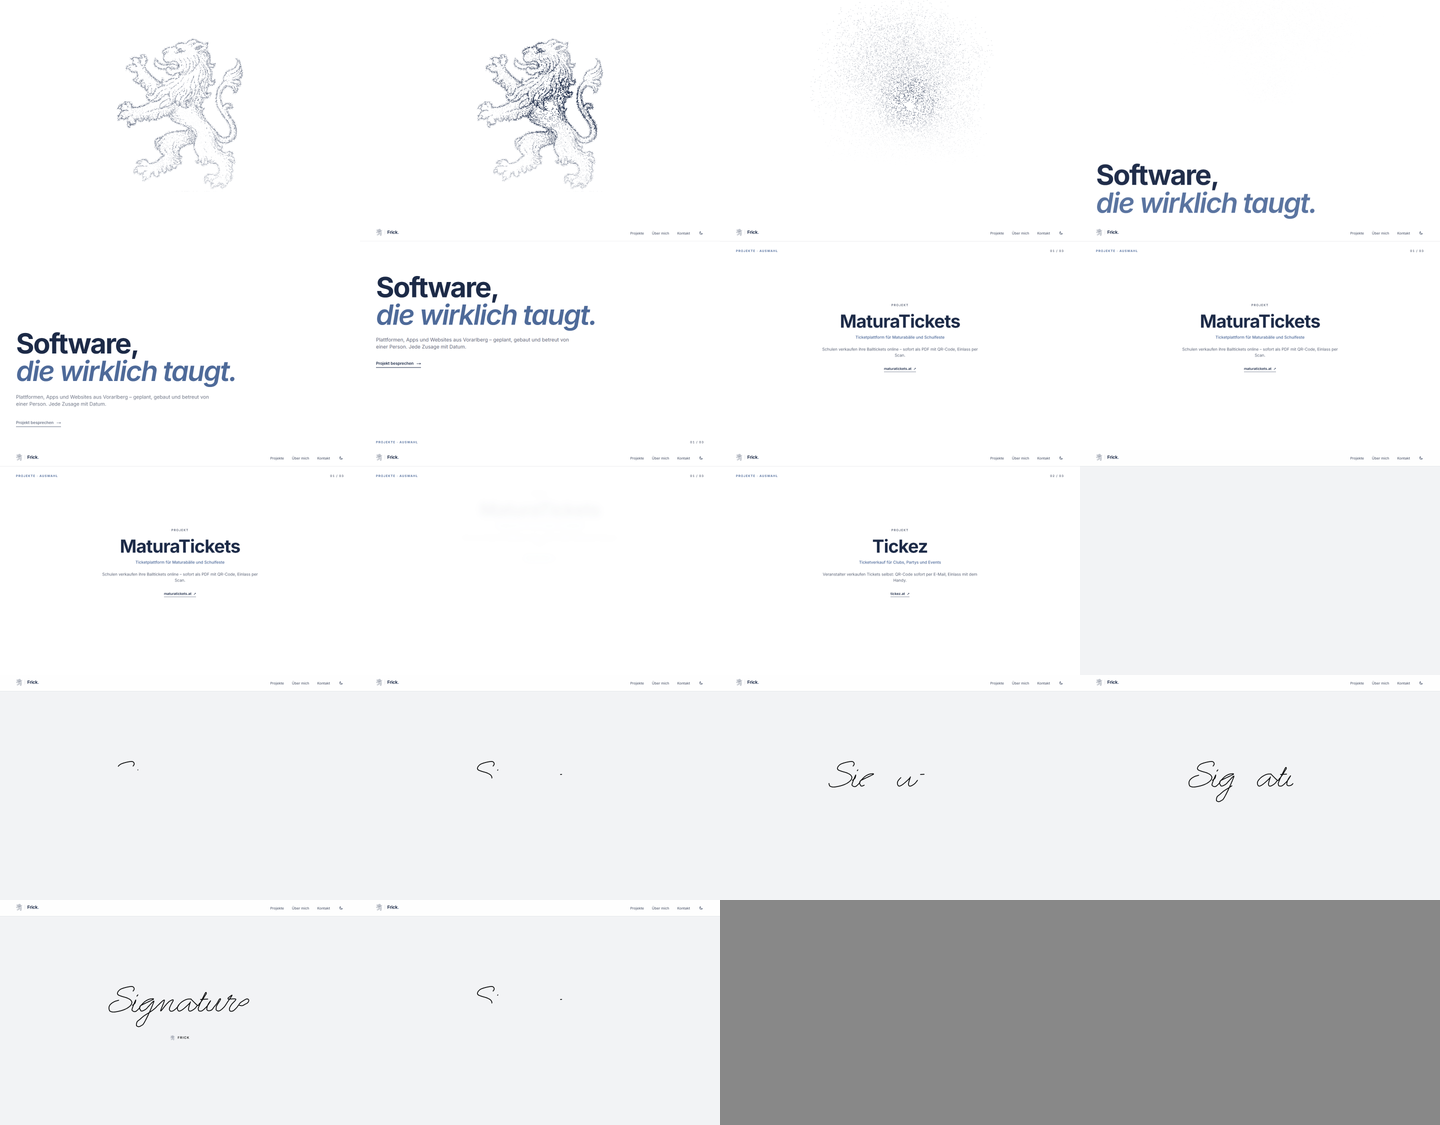
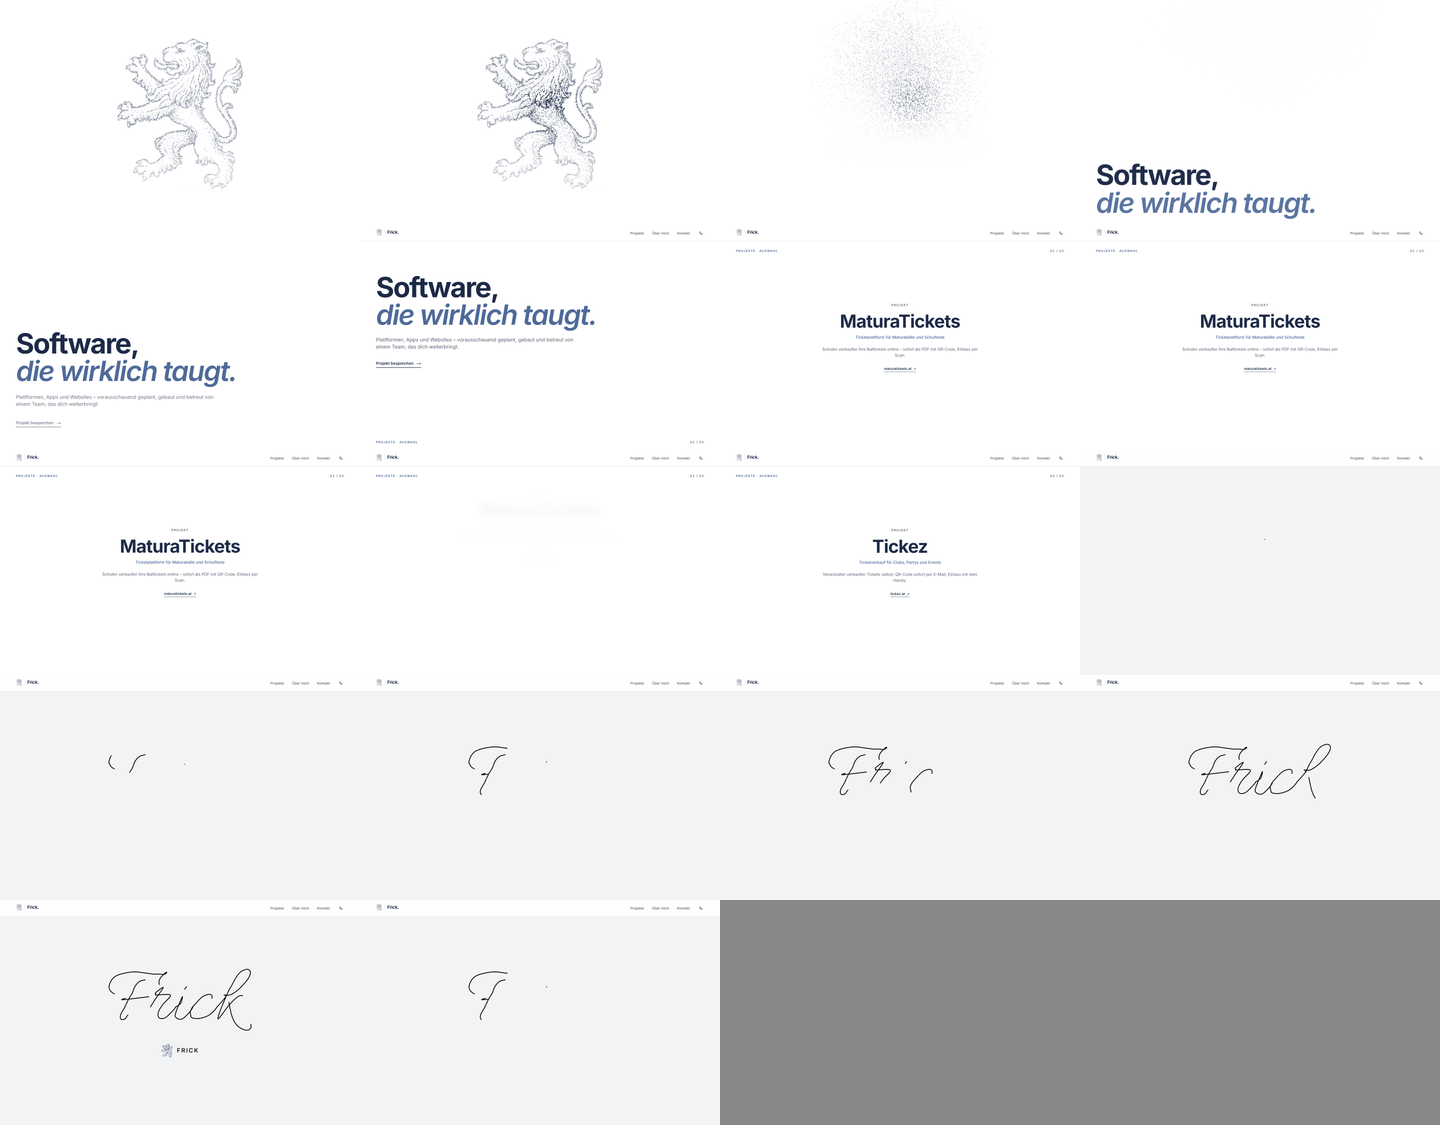
feat: Unterschrift „Frick“, ruhiger Löwe, langsamere Projekte, neuer Slogan-Text
- Löwe: kein Hereinfliegen mehr, Punkte blenden an Ort und Stelle ein;
  beim Hover leuchten sie nur auf (keine Bewegung)
- Projekte: ca. 2,2 Bildschirmhöhen Scrollweg pro Projekt
- Slogan-Text: „… vorausschauend geplant, gebaut und betreut von einem Team,
  das dich weiterbringt.“
- Unterschrift-Platzhalter „Frick“ (7 Striche), Staffelung passt sich der
  Strichanzahl an; Löwe und Name darunter größer

diff --git a/lib/signature.ts b/lib/signature.ts
@@ -2,7 +2,7 @@
  * Unterschrift für das Outro (components/SignatureOutro.tsx).
  *
  * ─── HIER ERSETZEN ───────────────────────────────────────────────────────
- * Platzhalter: Fantasie-Schriftzug „Signature“, gesetzt aus „EMS Allure“
+ * Platzhalter: Schriftzug „Frick“, gesetzt aus „EMS Allure“
  * (Einstrich-Schreibschrift, SIL Open Font License).
  *
  * Für die echte Unterschrift: als SVG aus Figma/Illustrator exportieren –
@@ -15,17 +15,21 @@
  * ─────────────────────────────────────────────────────────────────────────
  */
 export const signature = {
-  viewBox: "0 0 580 173",
+  viewBox: "0 0 580 255",
   paths: [
-    // S (Anfangsbuchstabe)
-    "M102.20 24.41 C102.87 23.43 105.53 20.65 106.20 18.56 C106.86 16.47 107.53 13.94 106.20 11.85 C104.86 9.76 102.99 6.52 98.20 6.00 C93.42 5.48 85.00 6.98 77.51 8.71 C70.02 10.45 59.25 13.28 53.25 16.42 C47.26 19.56 43.57 23.96 41.55 27.55 C39.53 31.14 38.89 35.11 41.12 37.97 C43.36 40.82 48.97 42.44 54.96 44.67 C60.96 46.91 71.02 48.98 77.08 51.38 C83.15 53.78 88.00 56.38 91.35 59.09 C94.71 61.80 96.37 64.96 97.21 67.65 C98.04 70.34 97.32 72.67 96.35 75.21 C95.37 77.76 94.42 79.91 91.35 82.92 C88.29 85.93 83.77 90.03 77.94 93.25 C72.11 96.47 64.86 99.77 56.39 102.24 C47.92 104.71 34.48 107.48 27.14 108.08 C19.79 108.68 15.59 107.11 12.29 105.83 C9.00 104.56 8.40 103.29 7.36 100.45 C6.31 97.60 5.40 92.45 6.00 88.77 C6.60 85.09 8.60 81.35 10.94 78.35 C13.27 75.36 16.78 72.95 20.00 70.79 C23.22 68.63 26.09 67.01 30.27 65.37 C34.46 63.73 42.64 61.68 45.12 60.94",
+    // F – Schaft (Anfangsbuchstabe)
+    "M150.69 48.03 C146.91 49.18 134.84 50.47 128.02 54.94 C121.20 59.41 114.56 67.15 109.77 74.85 C104.98 82.54 103.50 92.68 99.26 101.11 C95.02 109.55 89.58 115.58 84.33 125.45 C79.08 135.31 72.95 150.13 67.74 160.28 C62.53 170.44 55.81 179.71 53.09 186.38 C50.37 193.06 50.87 196.84 51.43 200.32 C51.98 203.80 53.36 206.56 56.40 207.29 C59.45 208.01 66.17 206.85 69.68 204.67 C73.18 202.50 75.39 196.85 77.42 194.24 C79.45 191.63 81.10 189.88 81.84 189.01",
+    // F – Bogen oben
+    "M27.79 104.43 C25.61 103.00 18.34 100.65 14.71 95.86 C11.08 91.07 5.13 84.25 6.00 75.68 C6.87 67.10 12.96 52.54 19.94 44.43 C26.91 36.32 33.92 31.67 47.83 27.01 C61.75 22.36 86.45 17.52 103.41 16.51 C120.37 15.49 136.50 19.46 149.58 20.93 C162.67 22.41 172.90 24.62 181.93 25.35 C190.96 26.09 196.36 25.22 203.78 25.35 C211.19 25.49 220.96 27.06 226.45 26.18 C231.93 25.31 235.66 21.25 236.68 20.10 C237.69 18.95 236.59 15.95 232.53 19.27 C228.48 22.59 216.72 34.20 212.35 40.01 C207.97 45.82 207.14 49.59 206.26 54.11 C205.39 58.63 206.96 64.94 207.09 67.10",
+    // F – Querstrich
+    "M71.34 121.85 C69.72 122.86 45.99 128.95 61.66 127.93 C77.33 126.92 148.06 117.80 165.34 115.77",
     // i-Punkt
-    "M121.61 39.25 L117.54 44.67",
-    // t-Querstrich
-    "M371.99 57.80 L401.18 56.38",
-    // ign
-    "M99.56 81.07 C101.21 79.80 107.28 76.95 109.45 73.50 C111.62 70.05 114.40 56.78 112.60 60.37 C110.81 63.96 100.54 87.76 98.66 95.04 C96.79 102.31 99.19 102.17 101.36 104.04 C103.53 105.92 108.10 107.41 111.69 106.28 C115.28 105.16 119.81 100.21 122.89 97.29 C125.97 94.37 128.15 91.48 130.17 88.77 C132.19 86.07 126.18 86.32 135.02 81.07 C143.87 75.81 177.86 61.28 183.26 57.23 C188.66 53.19 173.05 55.31 167.42 56.80 C161.79 58.30 154.49 62.70 149.48 66.22 C144.47 69.74 140.33 75.00 137.34 77.93 C134.34 80.85 133.00 81.52 131.50 83.78 C130.00 86.04 128.42 88.93 128.35 91.48 C128.27 94.04 129.62 96.92 131.04 99.09 C132.47 101.26 133.29 104.78 136.89 104.48 C140.49 104.18 148.00 100.60 152.63 97.29 C157.27 93.98 160.58 88.98 164.71 84.63 C168.84 80.29 174.77 73.98 177.41 71.22 C180.05 68.46 179.29 68.60 180.55 68.08 C181.81 67.56 187.90 59.54 184.97 68.08 C182.05 76.62 169.74 104.92 163.00 119.31 C156.25 133.70 148.95 147.38 144.53 154.42 C140.10 161.46 139.00 159.67 136.45 161.55 C133.91 163.43 131.52 164.86 129.26 165.69 C127.00 166.52 125.14 167.24 122.89 166.55 C120.64 165.86 116.50 164.79 115.76 161.55 C115.02 158.32 116.37 150.97 118.47 147.14 C120.57 143.31 124.30 142.10 128.35 138.58 C132.39 135.06 138.83 129.15 142.73 126.02 C146.63 122.88 146.11 123.43 151.72 119.77 C157.33 116.11 169.66 108.76 176.41 104.04 C183.16 99.33 187.97 95.31 192.25 91.48 C196.53 87.65 196.20 86.25 202.10 81.07 C208.00 75.88 225.93 56.62 227.64 60.37 C229.36 64.13 211.54 100.21 212.37 103.59 C213.21 106.96 227.17 86.70 232.64 80.64 C238.11 74.58 241.60 70.36 245.20 67.22 C248.79 64.08 251.57 63.16 254.19 61.80 C256.80 60.44 259.47 58.95 260.89 59.09 C262.32 59.23 263.94 59.28 262.75 62.66 C261.56 66.03 256.23 74.33 253.76 79.35 C251.29 84.37 248.81 89.25 247.91 92.77 C247.00 96.28 247.43 98.42 248.34 100.45 C249.24 102.47 251.09 104.40 253.33 104.93 C255.57 105.45 258.85 104.86 261.75 103.59 C264.65 102.31 267.74 99.83 270.74 97.29 C273.74 94.75 277.40 91.05 279.73 88.34 C282.06 85.64 283.89 82.28 284.73 81.07",
-    // ature
-    "M359.94 81.07 C359.03 82.28 356.63 85.87 354.51 88.34 C352.40 90.82 350.23 93.55 347.23 95.94 C344.24 98.33 339.74 101.26 336.53 102.69 C333.32 104.11 330.06 105.23 327.97 104.48 C325.87 103.73 324.35 101.12 323.97 98.19 C323.59 95.26 324.42 91.94 325.68 86.92 C326.95 81.90 331.01 70.48 331.54 68.08 C332.06 65.68 331.68 69.43 328.82 72.50 C325.97 75.57 319.35 82.06 314.41 86.49 C309.47 90.92 303.82 96.09 299.18 99.09 C294.55 102.09 289.74 104.71 286.60 104.48 C283.45 104.26 281.20 100.96 280.30 97.75 C279.40 94.53 278.88 89.84 281.20 85.20 C283.52 80.57 289.36 74.14 294.23 69.93 C299.10 65.72 305.77 62.20 310.41 59.94 C315.06 57.68 318.22 56.97 322.12 56.38 C326.02 55.78 331.58 56.07 333.82 56.38 C336.05 56.69 331.19 54.12 335.53 58.23 C339.87 62.35 354.61 78.24 359.86 81.07 C365.12 83.90 365.03 77.07 367.06 75.21 C369.08 73.36 369.83 72.62 371.99 69.93 C374.16 67.25 376.98 63.75 380.06 59.09 C383.14 54.43 387.93 46.08 390.47 41.96 C393.02 37.85 395.33 35.83 395.33 34.40 C395.33 32.97 395.41 24.86 390.47 33.40 C385.54 41.94 370.21 74.91 365.71 85.63 C361.21 96.36 363.24 94.68 363.46 97.75 C363.68 100.82 364.58 103.15 367.06 104.04 C369.53 104.94 374.17 105.22 378.29 103.13 C382.40 101.04 387.94 95.16 391.76 91.48 C395.57 87.81 397.72 85.80 401.18 81.07 C404.63 76.33 412.17 63.89 412.48 63.08 C412.79 62.28 405.45 71.79 403.05 76.21 C400.65 80.64 398.99 85.82 398.10 89.63 C397.20 93.44 396.60 96.84 397.65 99.09 C398.70 101.34 401.17 103.05 404.40 103.13 C407.62 103.20 413.32 102.16 416.99 99.53 C420.66 96.90 422.91 91.75 426.44 87.34 C429.96 82.93 434.62 78.16 438.14 73.07 C441.66 67.98 445.25 59.28 447.56 56.80 C449.87 54.33 453.86 53.74 451.98 58.23 C450.10 62.73 439.12 77.94 436.28 83.78 C433.45 89.61 435.29 90.63 435.00 93.25 C434.72 95.88 433.38 97.73 434.57 99.53 C435.76 101.33 439.31 103.74 442.14 104.04 C444.97 104.34 447.80 103.68 451.55 101.34 C455.31 99.01 461.31 93.44 464.68 90.06 C468.06 86.68 470.62 82.56 471.82 81.07 C473.02 79.57 470.31 83.54 471.89 81.07 C473.48 78.59 476.91 72.88 481.32 66.22 C485.74 59.56 498.06 43.58 498.36 41.11 C498.66 38.63 485.66 49.05 483.12 51.38 C480.58 53.71 482.82 54.26 483.12 55.09 C483.42 55.92 479.92 56.09 484.93 56.38 C489.95 56.66 511.18 53.43 513.21 56.80 C515.23 60.18 501.27 70.65 497.08 76.64 C492.89 82.64 489.20 88.20 488.07 92.77 C486.95 97.33 487.84 102.31 490.31 104.04 C492.79 105.77 498.21 105.74 502.93 103.13 C507.65 100.51 515.04 92.02 518.63 88.34 C522.22 84.67 521.17 81.97 524.48 81.07 C527.79 80.16 534.20 83.59 538.48 82.92 C542.76 82.25 546.58 78.95 550.17 77.07 C553.76 75.19 557.54 73.91 560.01 71.65 C562.49 69.39 564.49 65.91 565.01 63.51 C565.53 61.11 564.87 58.42 563.15 57.23 C561.44 56.04 558.92 54.88 554.73 56.38 C550.55 57.88 541.94 63.75 538.04 66.22 C534.13 68.70 533.62 68.96 531.30 71.22 C528.98 73.48 526.06 77.09 524.11 79.78 C522.16 82.47 520.51 84.88 519.61 87.34 C518.71 89.81 518.34 92.34 518.71 94.59 C519.09 96.85 519.38 99.01 521.85 100.89 C524.33 102.76 528.30 105.83 533.54 105.83 C538.78 105.83 548.97 102.61 553.31 100.89 C557.65 99.16 557.04 97.66 559.59 95.49 C562.13 93.33 566.17 90.32 568.58 87.92 C570.98 85.51 573.10 82.21 574.00 81.07",
+    "M316.31 75.68 L308.43 86.18",
+    // ri – durchgehender Zug
+    "M171.56 156.69 C174.61 151.90 181.29 140.84 189.84 127.93 C198.39 115.03 222.27 84.06 222.85 79.27 C223.43 74.48 198.25 94.66 193.32 99.18 C188.40 103.69 192.74 104.75 193.32 106.37 C193.91 107.98 187.12 108.30 196.84 108.86 C206.55 109.41 247.69 103.14 251.61 109.68 C255.53 116.23 228.48 136.50 220.37 148.12 C212.25 159.73 205.10 170.51 202.92 179.36 C200.73 188.21 202.46 197.86 207.26 201.20 C212.06 204.55 222.56 204.50 231.70 199.43 C240.84 194.37 255.16 177.91 262.12 170.79 C269.07 163.67 271.54 159.04 273.45 156.69 C275.36 154.34 270.37 159.13 273.59 156.69 C276.81 154.25 288.54 148.72 292.75 142.03 C296.96 135.35 302.35 109.64 298.86 116.60 C295.38 123.55 275.48 169.66 271.85 183.76 C268.22 197.86 272.87 197.57 277.07 201.20 C281.28 204.84 290.14 207.72 297.09 205.55 C304.05 203.37 312.83 193.78 318.80 188.13 C324.76 182.47 328.98 176.86 332.90 171.62 C336.81 166.38 340.73 159.18 342.30 156.69",
+    // ck – durchgehender Zug
+    "M418.33 122.68 C418.15 120.65 419.30 113.23 417.23 110.51 C415.15 107.80 412.25 105.35 405.89 106.37 C399.53 107.38 388.92 109.36 379.07 116.60 C369.22 123.83 353.61 142.50 346.78 149.78 C339.95 157.06 340.70 155.77 338.10 160.28 C335.49 164.80 332.00 172.08 331.13 176.87 C330.26 181.66 331.71 185.10 332.87 189.01 C334.03 192.92 332.44 198.00 338.10 200.32 C343.75 202.64 356.08 204.37 366.82 202.92 C377.57 201.47 392.84 196.55 402.57 191.61 C412.31 186.67 419.30 179.10 425.25 173.28 C431.19 167.46 436.10 159.45 438.24 156.69 C440.38 153.92 435.22 159.87 438.10 156.69 C440.98 153.51 449.57 144.71 455.52 137.61 C461.47 130.51 471.91 118.90 473.80 114.11 C475.69 109.32 464.08 109.73 466.86 108.86 C469.64 107.98 481.35 112.17 490.50 108.86 C499.65 105.54 511.47 97.52 521.74 88.95 C532.02 80.38 544.46 66.60 552.16 57.43 C559.85 48.26 564.74 41.02 567.92 33.93 C571.10 26.83 572.71 19.50 571.24 14.85 C569.76 10.19 565.15 6.00 559.07 6.00 C552.99 6.00 541.97 9.73 534.74 14.85 C527.50 19.96 521.88 27.57 515.66 36.69 C509.44 45.82 503.08 59.32 497.41 69.59 C491.74 79.87 489.21 81.81 481.65 98.35 C474.09 114.89 458.72 151.28 452.04 168.85 C445.36 186.43 441.30 199.87 441.59 203.80 C441.88 207.74 447.70 199.86 453.78 192.47 C459.86 185.08 469.36 170.07 478.06 159.45 C486.76 148.84 497.83 136.60 505.98 128.76 C514.14 120.93 521.19 115.31 527.00 112.45 C532.80 109.59 538.52 111.76 540.82 111.62",
+    // k – Bein
+    "M485.25 138.44 C487.41 147.88 492.76 179.70 498.24 195.09 C503.72 210.49 510.04 221.94 518.15 230.79 C526.26 239.64 539.07 245.30 546.90 248.21 C554.74 251.11 560.77 249.50 565.15 248.21 C569.53 246.92 571.70 242.63 573.17 240.47 C574.65 238.30 574.00 237.70 574.00 235.21 C574.00 232.73 573.31 227.17 573.17 225.56",
   ],
 } as const;

diff --git a/components/LionParticles.tsx b/components/LionParticles.tsx
@@ -5,8 +5,9 @@ import { useEffect, useRef } from "react";
 type Data = { w: number; h: number; p: number[] };
 
 /**
- * Der Löwe als Punktwolke (Canvas). Beim Laden fliegen die Punkte aus einem
- * diagonalen Strom zusammen, danach wandert ein Lichtband über den Löwen.
+ * Der Löwe als Punktwolke (Canvas). Die Punkte stehen fest und blenden beim
+ * Laden nur kurz ein; ein ruhiges Lichtband wandert über den Löwen. Beim
+ * Darüberfahren leuchten die Punkte unter dem Zeiger auf (ohne sich zu bewegen).
  * Beim Wegscrollen zerstreuen sich die Punkte.
  * Farbe = aktuelle Textfarbe (Navy im hellen, Weiß im dunklen Modus).
  * Punkte: public/brand/loewe-punkte.json (scripts/generate-particles.mjs).
@@ -31,12 +32,11 @@ export function LionParticles({ className = "" }: { className?: string }) {
     let my = -1e6;
     let hover = 0; // 0–1, weich ein-/ausgeblendet
     let hoverTarget = 0;
-    let sweepT = -10; // Startzeit des Glanzstreifens
 
     let n = 0;
     let src: Data | null = null;
     let tx: Float32Array, ty: Float32Array, b: Float32Array;
-    let sx: Float32Array, sy: Float32Array, delay: Float32Array, phase: Float32Array;
+    let delay: Float32Array, phase: Float32Array;
     let dx: Float32Array, dy: Float32Array;
 
     const readColor = () => {
@@ -63,8 +63,6 @@ export function LionParticles({ className = "" }: { className?: string }) {
       tx = new Float32Array(n);
       ty = new Float32Array(n);
       b = new Float32Array(n);
-      sx = new Float32Array(n);
-      sy = new Float32Array(n);
       delay = new Float32Array(n);
       phase = new Float32Array(n);
       dx = new Float32Array(n);
@@ -73,11 +71,7 @@ export function LionParticles({ className = "" }: { className?: string }) {
         tx[i] = d.p[i * 3] / d.h;
         ty[i] = d.p[i * 3 + 1] / d.h;
         b[i] = d.p[i * 3 + 2] / 100;
-        // Start: diagonaler Strom von links unten
-        const r = Math.random();
-        sx[i] = tx[i] - 0.9 - r * 0.9;
-        sy[i] = ty[i] + 0.7 + r * 0.7;
-        delay[i] = Math.random() * 0.55 + (1 - ty[i]) * 0.35;
+        delay[i] = Math.random() * 0.4;
         phase[i] = Math.random() * Math.PI * 2;
         const a = Math.random() * Math.PI * 2;
         const s = 0.25 + Math.random() * 0.6;
@@ -106,46 +100,32 @@ export function LionParticles({ className = "" }: { className?: string }) {
       const dot = Math.max(1, size / 420);
       // Lichtband entlang der Diagonale (ruhig) + Glanzstreifen beim Hover (schnell)
       const band = reduce ? -9 : ((t * 0.16) % 1.7) - 0.35;
-      const sweep = (t - sweepT) * 1.25 - 0.25;
       hover += (hoverTarget - hover) * 0.08;
       const flareR = size * 0.16;
 
       ctx!.clearRect(0, 0, W, H);
       ctx!.fillStyle = `rgb(${rgb})`;
       for (let i = 0; i < n; i++) {
-        const k = ease(Math.min(1, Math.max(0, (t - delay[i]) / 1.7)));
+        // nur kurzes Einblenden an Ort und Stelle
+        const k = ease(Math.min(1, Math.max(0, (t - delay[i]) / 0.8)));
         if (k <= 0) continue;
-        let x = sx[i] + (tx[i] - sx[i]) * k;
-        let y = sy[i] + (ty[i] - sy[i]) * k;
-        x += dx[i] * scroll;
-        y += dy[i] * scroll;
-        let px = ox + x * size;
-        let py = oy + y * size;
+        const px = ox + (tx[i] + dx[i] * scroll) * size;
+        const py = oy + (ty[i] + dy[i] * scroll) * size;
         const diag = (tx[i] * (src.h / src.w) + (1 - ty[i])) / 2;
         const glow = Math.exp(-((diag - band) ** 2) / 0.006);
-        const shine = sweep > -0.3 && sweep < 1.4 ? Math.exp(-((diag - sweep) ** 2) / 0.002) : 0;
-        // Glanz am Zeiger: Punkte leuchten auf und weichen leicht aus
+        // Leuchten am Zeiger – Punkte bleiben an ihrem Platz
         let flare = 0;
         if (hover > 0.01) {
           const ddx = px - mx;
           const ddy = py - my;
           const d2 = ddx * ddx + ddy * ddy;
-          if (d2 < flareR * flareR * 4) {
-            flare = Math.exp(-d2 / (flareR * flareR)) * hover;
-            const push = flare * flareR * 0.12;
-            const d = Math.sqrt(d2) || 1;
-            px += (ddx / d) * push;
-            py += (ddy / d) * push;
-          }
+          if (d2 < flareR * flareR * 4) flare = Math.exp(-d2 / (flareR * flareR)) * hover;
         }
         const twinkle = reduce ? 1 : 0.82 + 0.18 * Math.sin(t * 2.2 + phase[i]);
-        const a = Math.min(
-          1,
-          (b[i] * twinkle + glow * 0.45 + shine * 0.9 + flare * 0.9) * k * fadeOut,
-        );
+        const a = Math.min(1, (b[i] * twinkle + glow * 0.45 + flare * 1.1) * k * fadeOut);
         if (a < 0.02) continue;
         ctx!.globalAlpha = a;
-        const s = dot * (1 + flare * 0.8 + shine * 0.4);
+        const s = dot * (1 + flare * 0.6);
         ctx!.fillRect(px, py, s, s);
       }
       ctx!.globalAlpha = 1;
@@ -189,7 +169,6 @@ export function LionParticles({ className = "" }: { className?: string }) {
     const onEnter = (e: PointerEvent) => {
       onMove(e);
       hoverTarget = 1;
-      sweepT = (performance.now() - t0) / 1000;
       wake();
     };
     const onLeave = () => {

diff --git a/components/SignatureOutro.tsx b/components/SignatureOutro.tsx
@@ -12,9 +12,14 @@ type Props = {
   name?: string;
 };
 
-/** Pfad i läuft im globalen Fortschritt [i · STAGGER, i · STAGGER + SPAN]. */
+/**
+ * Pfad i läuft im Schreib-Fortschritt w über [i · STAGGER, i · STAGGER + SPAN].
+ * SPAN ergibt sich aus der Anzahl der Pfade, damit der letzte genau bei w = 1
+ * fertig ist (bei 5 Pfaden: 0.6 wie vorgegeben).
+ */
 const STAGGER = 0.1;
-const SPAN = 0.6;
+/** Bis hier (Scroll-Fortschritt) ist die Unterschrift vollständig geschrieben */
+const WRITE_END = 0.88;
 /** Ab hier erscheinen Logo und Name */
 const SHOW_MARK = 0.9;
 
@@ -56,14 +61,16 @@ export function SignatureOutro({
     }
 
     section.dataset.ready = "";
+    const span = Math.max(0.2, 1 - (els.length - 1) * STAGGER);
     let frame = 0;
     const update = () => {
       frame = 0;
       const rect = section.getBoundingClientRect();
       const range = section.offsetHeight - window.innerHeight;
       const p = range > 0 ? Math.min(1, Math.max(0, -rect.top / range)) : 1;
+      const w = Math.min(1, p / WRITE_END);
       els.forEach((el, i) => {
-        const local = Math.min(1, Math.max(0, (p - i * STAGGER) / SPAN));
+        const local = Math.min(1, Math.max(0, (w - i * STAGGER) / span));
         el.style.strokeDashoffset = `${lengths[i] * (1 - local)}`;
       });
       if (p > SHOW_MARK) section.dataset.done = "";
@@ -105,9 +112,11 @@ export function SignatureOutro({
             <path key={i} d={d} />
           ))}
         </svg>
-        <div className="signature-mark mt-7 flex items-center gap-3">
-          <Lion className="h-5 w-auto" />
-          <span className="text-[0.8125rem] font-semibold tracking-[0.15em] uppercase">{name}</span>
+        <div className="signature-mark mt-10 flex items-center gap-4 sm:mt-12">
+          <Lion className="h-11 w-auto sm:h-14" />
+          <span className="text-xl font-semibold tracking-[0.15em] uppercase sm:text-2xl">
+            {name}
+          </span>
         </div>
       </div>
     </section>

diff --git a/components/Hero.tsx b/components/Hero.tsx
@@ -20,8 +20,8 @@ export function Hero() {
         data-reveal
         className="mt-8 max-w-prose text-lg text-pretty text-muted [--reveal-delay:280ms] sm:text-xl"
       >
-        Plattformen, Apps und Websites aus Vorarlberg – geplant, gebaut und betreut von einer
-        Person. Jede Zusage mit Datum.
+        Plattformen, Apps und Websites – vorausschauend geplant, gebaut und betreut von einem Team,
+        das dich weiterbringt.
       </p>
       <div data-reveal className="mt-10 [--reveal-delay:400ms]">
         <Link

diff --git a/lib/site.ts b/lib/site.ts
@@ -12,7 +12,7 @@ export const site = {
   title: "Frick. · Software aus Vorarlberg",
   slogan: "Software, die wirklich taugt.",
   description:
-    "Plattformen, Apps und Websites aus Feldkirch – geplant, gebaut und betreut von Aaron Frick. Eine Ansprechperson, jede Zusage mit Datum.",
+    "Plattformen, Apps und Websites aus Vorarlberg – vorausschauend geplant, gebaut und betreut von einem Team, das dich weiterbringt.",
   location: {
     city: "Feldkirch",
     region: "Vorarlberg",

diff --git a/components/ProjectsPin.tsx b/components/ProjectsPin.tsx
@@ -22,8 +22,8 @@ export function ProjectsPin({ projects }: { projects: Project[] }) {
     const items = itemRefs.current.slice();
     const n = projects.length;
     section.dataset.pin = "";
-    // ca. 1,2 Bildschirmhöhen Scrollweg pro Projekt + Ein-/Auslauf
-    section.style.height = `${n * 120 + 100}svh`;
+    // ca. 2,2 Bildschirmhöhen Scrollweg pro Projekt + Ein-/Auslauf
+    section.style.height = `${n * 220 + 100}svh`;
 
     let frame = 0;
     const update = () => {
